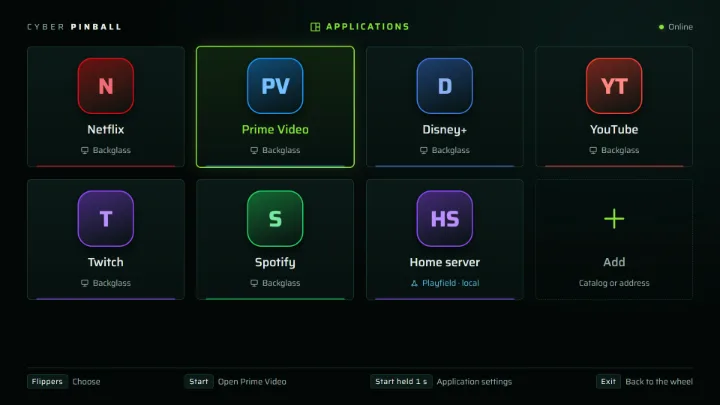
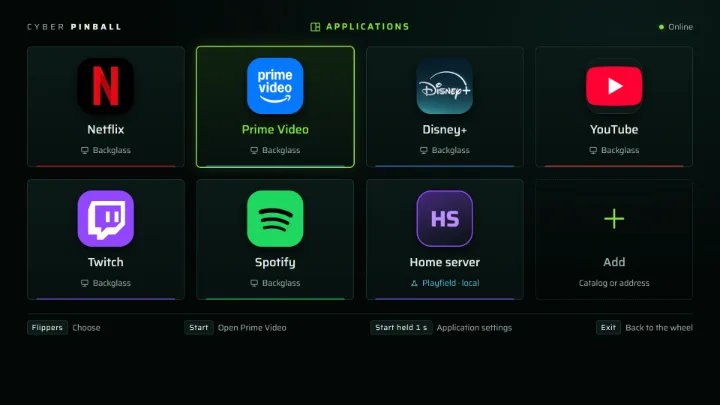
Cyber Pinball 0.2.5-essai.1

diff --git a/packages/core/src/test/applications.test.ts b/packages/core/src/test/applications.test.ts
@@ -22,6 +22,7 @@ import {
   blockEdgeTranslate,
   withoutTranslatePrefs,
   appIconDue,
+  DEFAULT_APPS,
   appIdFor,
   appMobile,
   appZoom,
@@ -45,6 +46,7 @@ import {
   updateApplication,
   type AppEntry,
 } from '../applications';
+import { BUNDLED_APP_ICON_DIR, bundledAppIcon } from '../applications-bundled';
 import { toPhysicalScreen } from '../fingerprint';
 import { setLanguage } from '../i18n';
 import type { Cabinet, Rotation } from '../model';
@@ -352,10 +354,12 @@ test('icône trop petite ou introuvable : cherchée au plus une fois par délai,
   // Le menu : un site muet est interrogé une fois, la date s'écrit, et rouvrir la grille ne relit rien.
   const dir = tmp();
   const looks: string[] = [];
-  const menu = makeMenu({ apps: defaultApplications().apps, online: true, look: async (id: string) => (looks.push(id), {}), dataDir: dir });
+  // Des sites ajoutés à la main (les six d'office ont une icône livrée et ne sont jamais cherchées).
+  const sites = defaultApplications().apps.map((a) => ({ ...a, id: `site-${a.id}` }));
+  const menu = makeMenu({ apps: sites, online: true, look: async (id: string) => (looks.push(id), {}), dataDir: dir });
   await settle();
   const first = looks.length;
-  assert.ok(first > 0 && first <= defaultApplications().apps.length, 'chaque application sans icône, une fois');
+  assert.ok(first > 0 && first <= sites.length, 'chaque application sans icône, une fois');
   const saved = loadApplications(dir);
   assert.ok(saved.apps.every((a) => a.iconChecked), 'la date de la recherche est écrite');
   menu.menu.open(() => undefined);
@@ -366,6 +370,28 @@ test('icône trop petite ou introuvable : cherchée au plus une fois par délai,
   await settle();
   assert.equal(looks.length, first, 'au démarrage suivant, rien avant le délai');
   void again;
+});
+
+test('icônes livrées : les six d’office ont un fichier net embarqué, la grille le montre et ne cherche rien sur le réseau', async () => {
+  const dir = path.resolve(__dirname, '..', '..', '..', '..', 'app', 'renderer', BUNDLED_APP_ICON_DIR);
+  for (const d of DEFAULT_APPS) {
+    const rel = bundledAppIcon(d.id);
+    assert.ok(rel, `${d.id} : icône livrée`);
+    const file = path.join(dir, path.basename(rel!));
+    assert.ok(fs.existsSync(file), `${d.id} : ${path.basename(rel!)} est dans app/renderer`);
+    const head = fs.readFileSync(file);
+    if (file.endsWith('.png')) assert.ok(head.readUInt32BE(16) >= 128 && head.readUInt32BE(20) >= 128, `${d.id} : au moins 128 px`);
+    else assert.match(head.toString('utf8'), /width="256" height="256"/, `${d.id} : SVG de 256 px (naturalWidth lu par la grille)`);
+    assert.equal(appIconDue({ id: d.id }, undefined, Date.now()), false, `${d.id} : jamais cherchée sur le site`);
+  }
+  assert.equal(bundledAppIcon('plex'), undefined, 'une application du catalogue garde l’icône de son site');
+  assert.equal(bundledAppIcon('constructor'), undefined, 'pas de clé héritée d’Object');
+  const looks: string[] = [];
+  const m = makeMenu({ apps: defaultApplications().apps, online: true, look: async (id: string) => (looks.push(id), {}) });
+  await settle();
+  assert.deepEqual(looks, [], 'hors ligne ou non : aucune requête pour les six');
+  const tiles = m.top().apps.tiles as { id: string; icon?: string }[];
+  for (const tile of tiles) assert.equal(tile.icon, bundledAppIcon(tile.id), `${tile.id} : la tuile porte l’icône livrée`);
 });
 
 test('fermée par le front-end (partie, sortie) : ni premier plan ni grille', async () => {

diff --git a/packages/core/src/applications.ts b/packages/core/src/applications.ts
@@ -7,11 +7,13 @@
 // Ce module ne fait rien sur le réseau ni sur l'écran (app/src/applications*.ts s'en chargent) : la
 // liste écrite (applications.json), le catalogue des suggestions, les adresses, la lecture des icônes
 // d'une page (manifeste, icône Apple, favicon), la tuile composée quand un site n'en a pas de grande, et
-// les arguments d'Edge. Aucun logo n'est livré : chaque icône vient du site lui-même.
+// les arguments d'Edge. Seules les six installées d'office ont une icône livrée (applications-bundled.ts) ;
+// pour les autres, l'icône vient du site lui-même.
 
 import * as fs from 'node:fs';
 import * as path from 'node:path';
 import { writeFileAtomic } from './atomicwrite';
+import { bundledAppIcon } from './applications-bundled';
 import { t } from './i18n';
 import { readJsonFile } from './store';
 import { EDGE_QUIET_ARGS, type ScreenRect } from './youtube-account';
@@ -411,7 +413,8 @@ export const APP_ICON_RECHECK_NONE_MS = 24 * 3600 * 1000;
  * tuile, et jamais plus d'une fois par délai (sinon, un site qui n'a pas mieux serait relu, page,
  * manifeste et sept images, à chaque démarrage de la borne).
  */
-export function appIconDue(app: Pick<AppEntry, 'icon' | 'iconChecked'>, side: number | undefined, nowMs: number): boolean {
+export function appIconDue(app: Pick<AppEntry, 'icon' | 'iconChecked'> & { id?: string }, side: number | undefined, nowMs: number): boolean {
+  if (app.id && bundledAppIcon(app.id)) return false;
   if (app.icon && (side ?? APP_ICON_MIN) >= APP_ICON_MIN) return false;
   const checked = app.iconChecked ? Date.parse(app.iconChecked) : NaN;
   if (!Number.isFinite(checked)) return true;

diff --git a/app/src/applications-menu.ts b/app/src/applications-menu.ts
@@ -19,6 +19,7 @@ import {
   DEFAULT_APPS,
   addApplication,
   appIconDue,
+  bundledAppIcon,
   appInitials,
   appMobile,
   appZoom,
@@ -190,7 +191,12 @@ export function createApplicationsMenu(host: ApplicationsMenuHost): Applications
       log(`Applications : enregistrement impossible (${(error as Error).message})`); // i18n-ignore : journal
     }
   };
-  const face = (a: Pick<AppEntry, 'id' | 'name' | 'color' | 'icon'>): AppFace => ({ id: a.id, name: a.name, initials: appInitials(a.name), color: a.color, ...(a.icon ? { icon: host.iconUrl(a.icon) } : {}) });
+  // L'icône livrée avec le logiciel (applications-bundled.ts) l'emporte sur celle relevée sur le site.
+  const iconOf = (a: Pick<AppEntry, 'id' | 'icon'>): string | undefined => bundledAppIcon(a.id) ?? (a.icon ? host.iconUrl(a.icon) : undefined);
+  const face = (a: Pick<AppEntry, 'id' | 'name' | 'color' | 'icon'>): AppFace => {
+    const icon = iconOf(a);
+    return { id: a.id, name: a.name, initials: appInitials(a.name), color: a.color, ...(icon ? { icon } : {}) };
+  };
   const whereOf = (a: AppEntry): { where: string; whereIcon: IconName } =>
     isLocalApp(a) ? { where: t('{screen} · local', { screen: shortScreen(a.screen) }), whereIcon: 'network' } : { where: shortScreen(a.screen), whereIcon: a.screen === 'playfield' ? 'playfield' : 'monitor' };
 

diff --git a/packages/core/src/applications-bundled.ts b/packages/core/src/applications-bundled.ts
@@ -1,0 +1,23 @@
+// Applications (28/11/2026) : les icônes des six services installés d'office sont livrées avec le
+// logiciel (app/renderer/applications-icones/<fichier>), nettes en grand et sans réseau : plus de
+// favicon de 32 ou 64 px relevé sur le site, qui s'affichait en pastille sur une tuile composée. Les
+// autres applications (catalogue, adresses ajoutées) gardent l'icône relevée sur leur site.
+
+/** Fichier de l'icône livrée, par identité d'application (celle de DEFAULT_APPS). */
+export const BUNDLED_APP_ICONS: Readonly<Record<string, string>> = {
+  netflix: 'netflix.svg',
+  'prime-video': 'prime-video.png',
+  'disney-plus': 'disney-plus.png',
+  youtube: 'youtube.png',
+  twitch: 'twitch.svg',
+  spotify: 'spotify.svg',
+};
+
+/** Dossier des icônes livrées, relatif aux pages du front-end (app/renderer). */
+export const BUNDLED_APP_ICON_DIR = 'applications-icones';
+
+/** Adresse relative (depuis une page de app/renderer) de l'icône livrée de cette application ; undefined : pas d'icône livrée. */
+export function bundledAppIcon(id: string): string | undefined {
+  const file = Object.prototype.hasOwnProperty.call(BUNDLED_APP_ICONS, id) ? BUNDLED_APP_ICONS[id] : undefined;
+  return file ? `${BUNDLED_APP_ICON_DIR}/${file}` : undefined;
+}

diff --git a/packages/core/src/test/siteicon.test.ts b/packages/core/src/test/siteicon.test.ts
@@ -216,7 +216,8 @@ test('une icône gardée plus petite que la tuile est relue une fois ; une grand
   assert.equal(storedIconSide(dataDir, 'petite.png'), 32);
   assert.equal(storedIconSide(dataDir, 'absente.png'), undefined);
   let store = core.defaultApplications('2026-11-20T10:00:00.000Z');
-  store = { apps: store.apps.map((a: { id: string }, i: number) => ({ ...a, icon: i === 0 ? 'petite.png' : 'grande.png' })) };
+  // Des sites ajoutés à la main : les six d'office ont une icône livrée et ne sont jamais relues.
+  store = { apps: store.apps.map((a: { id: string }, i: number) => ({ ...a, id: `site-${a.id}`, icon: i === 0 ? 'petite.png' : 'grande.png' })) };
   core.saveApplications(dataDir, store);
   const looked: string[] = [];
   const host = {

diff --git a/packages/core/src/index.ts b/packages/core/src/index.ts
@@ -240,6 +240,7 @@ export * from './badges';
 export * from './levels';
 export * from './arena';
 export * from './applications';
+export * from './applications-bundled';
 export * from './page-loading';
 export * from './communityhome';
 export * from './account';

diff --git a/CHANGELOG.en.md b/CHANGELOG.en.md
@@ -7,6 +7,10 @@ section of [CHANGELOG.md](CHANGELOG.md) point by point (same versions, same numb
 `npm run publier` puts both languages in the update feed, where the cabinet shows the notes in
 its own language before installing, and in the GitHub release. Short sentences, written for the cabinet's user.
 
+## 0.2.5
+
+- Applications: Netflix, Prime Video, Disney+, YouTube, Twitch and Spotify now show their real icon, sharp at any size and shipped with the software: nothing is fetched online for them, so they also show offline.
+
 ## 0.2.4
 
 - Pinball FX Midnight and Surprise table were developed by Emeric (lechable472-cloud): thanks to him. What's new says so.

diff --git a/CHANGELOG.md b/CHANGELOG.md
@@ -9,6 +9,10 @@ traduction, point par point, dans [CHANGELOG.en.md](CHANGELOG.en.md) (vérifié 
 le flux de mise à jour et la release GitHub reprennent les deux langues (la borne affiche celle de
 son interface).
 
+## 0.2.5
+
+- Applications : Netflix, Prime Video, Disney+, YouTube, Twitch et Spotify s'affichent avec leur vraie icône, nette en grand et livrée avec le logiciel : plus rien n'est cherché en ligne pour elles, elles s'affichent aussi sans connexion.
+
 ## 0.2.4
 
 - Pinball FX Midnight et la Table surprise ont été développés par Emeric (lechable472-cloud) : merci à lui. Les Nouveautés le disent.
